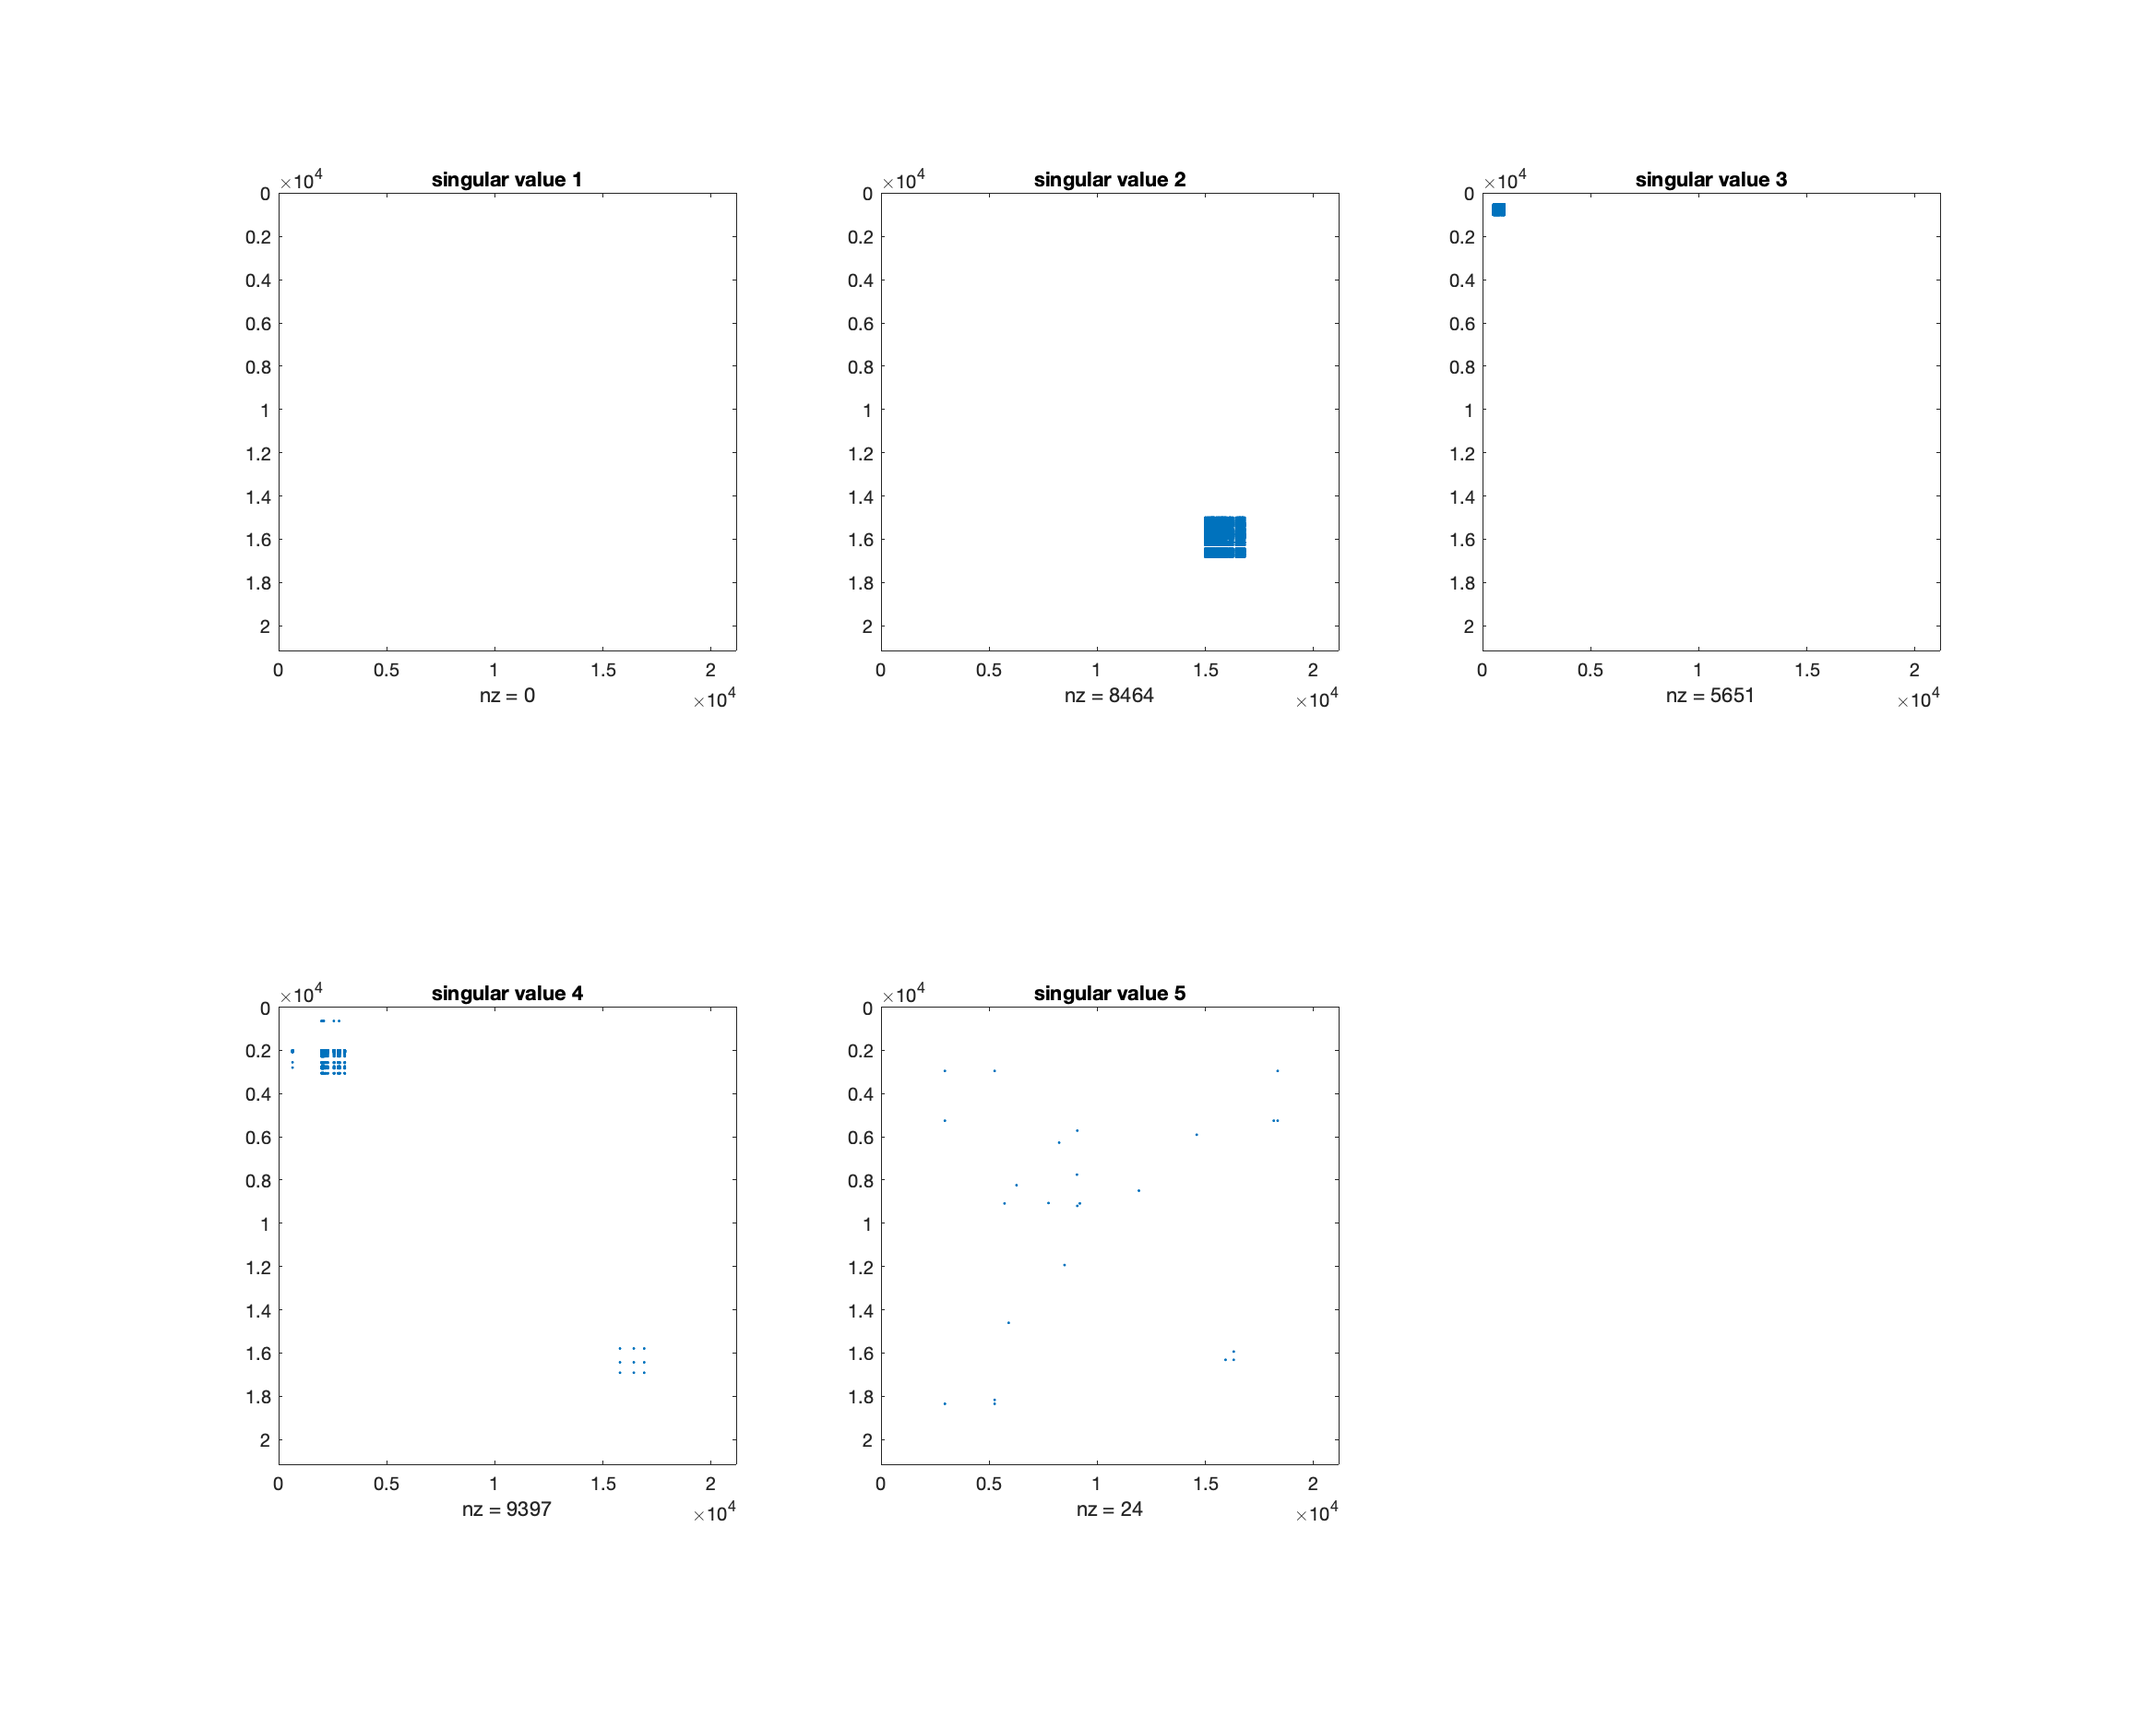
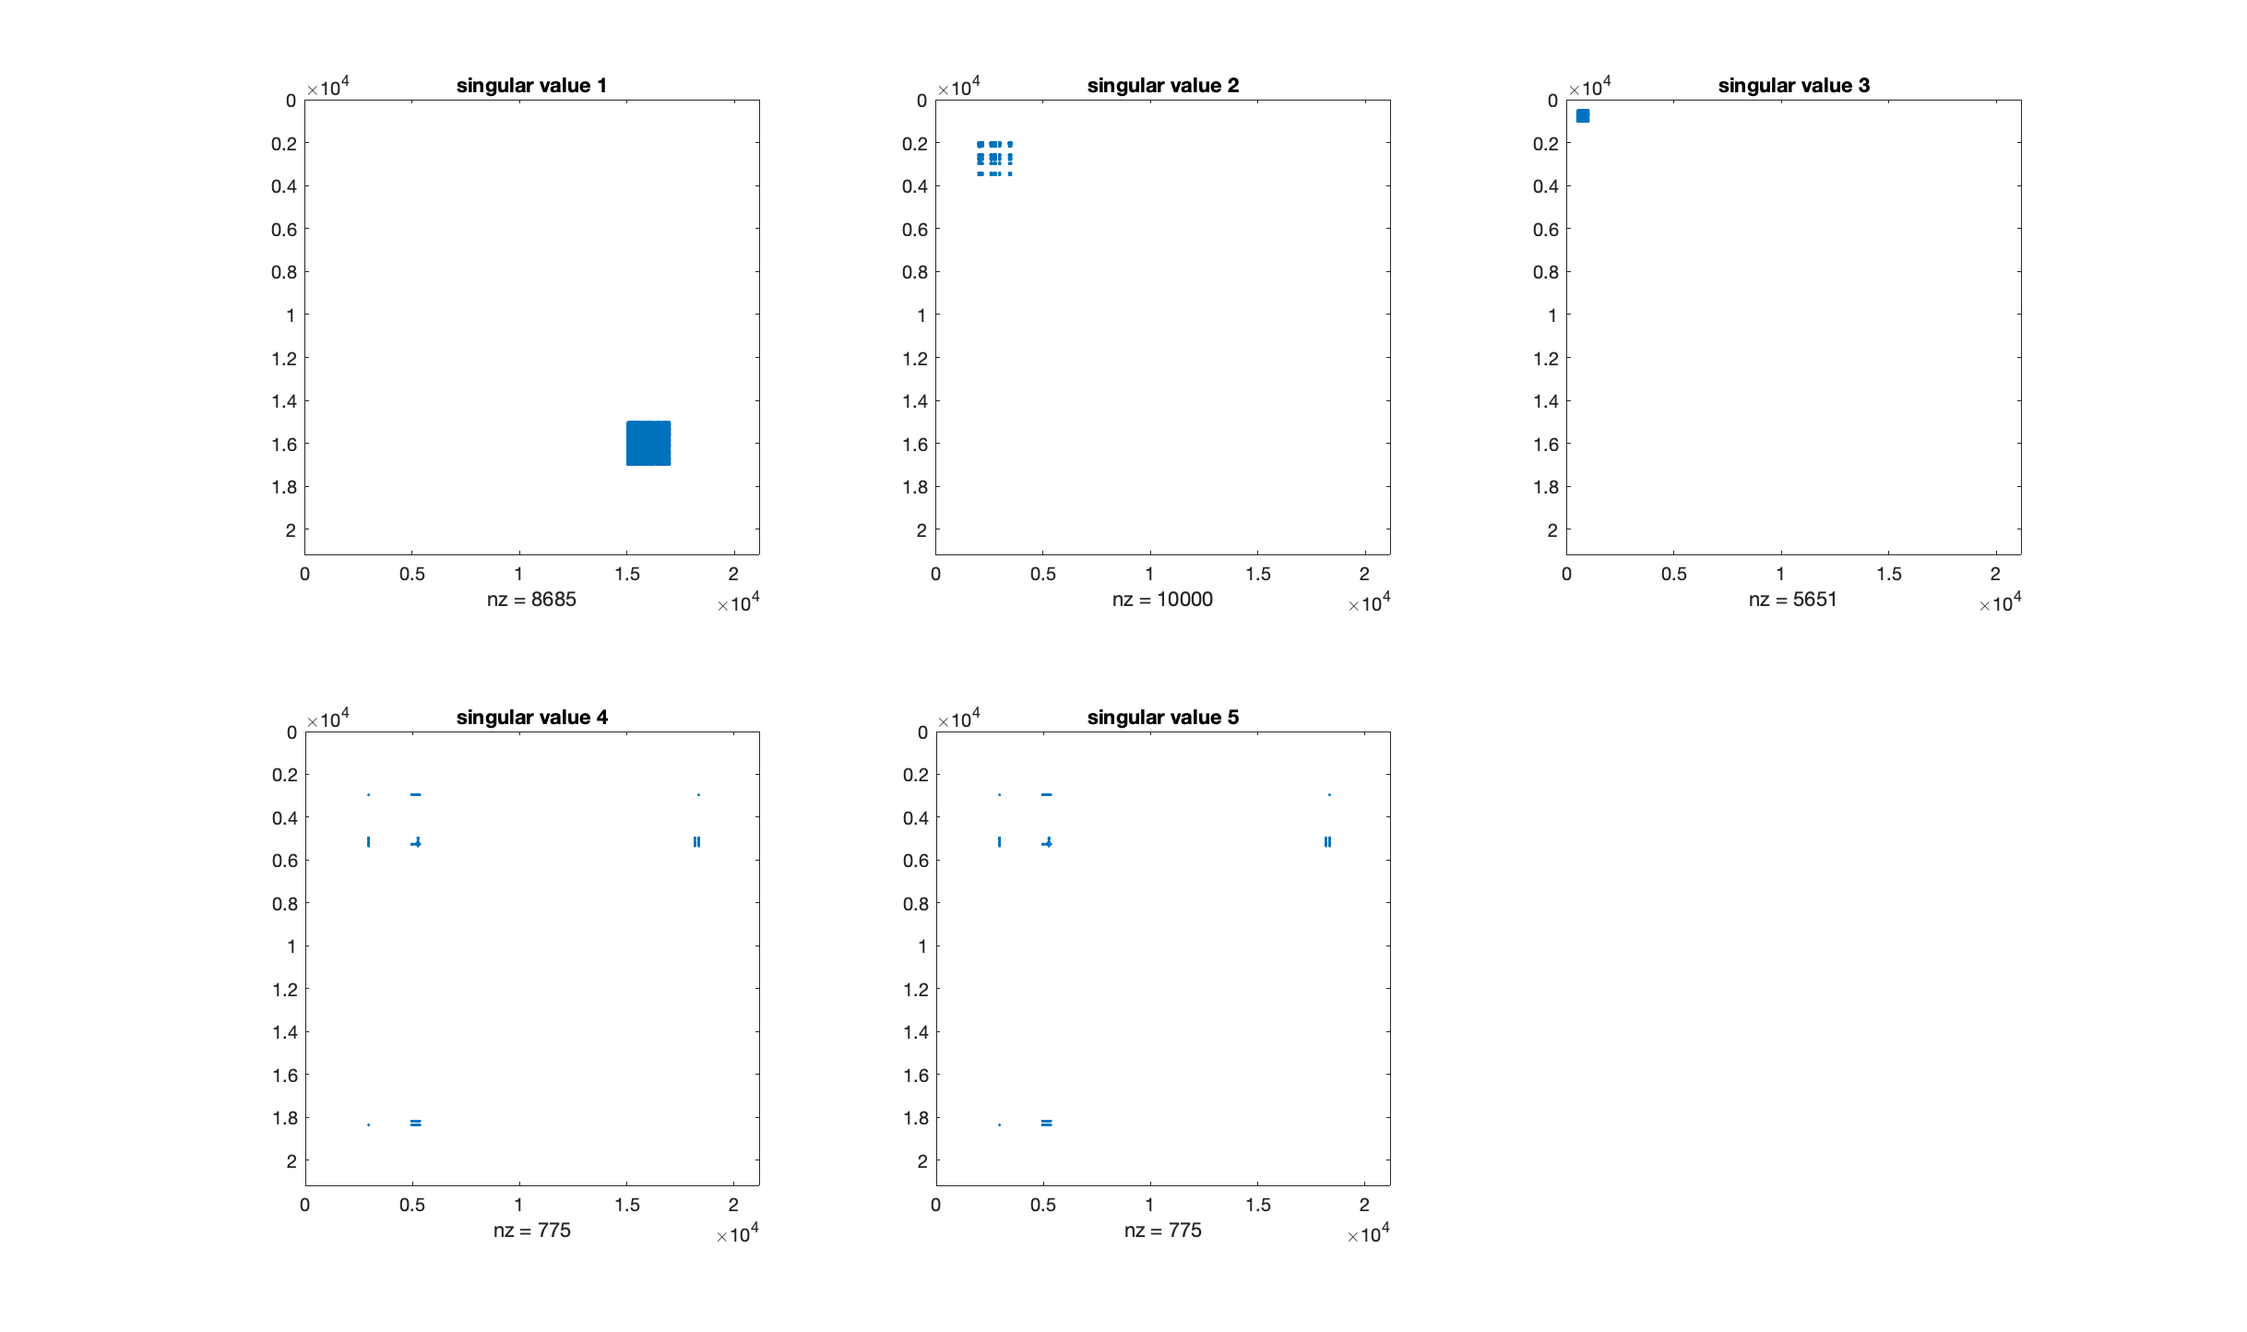
update abs

diff --git a/my_code.m b/my_code.m
@@ -110,7 +110,7 @@ title('plot for first 5 singular vectors')
 % d
 idx_max = zeros(5, 100);
 for i = 1 : 5
-    [~, idx_max(i, :)] = maxk(U(:,i), 100);
+    [~, idx_max(i, :)] = maxk(abs(U(:,i)), 100);
 end
 
 row_nnz = unique(my_data(:, 1));
